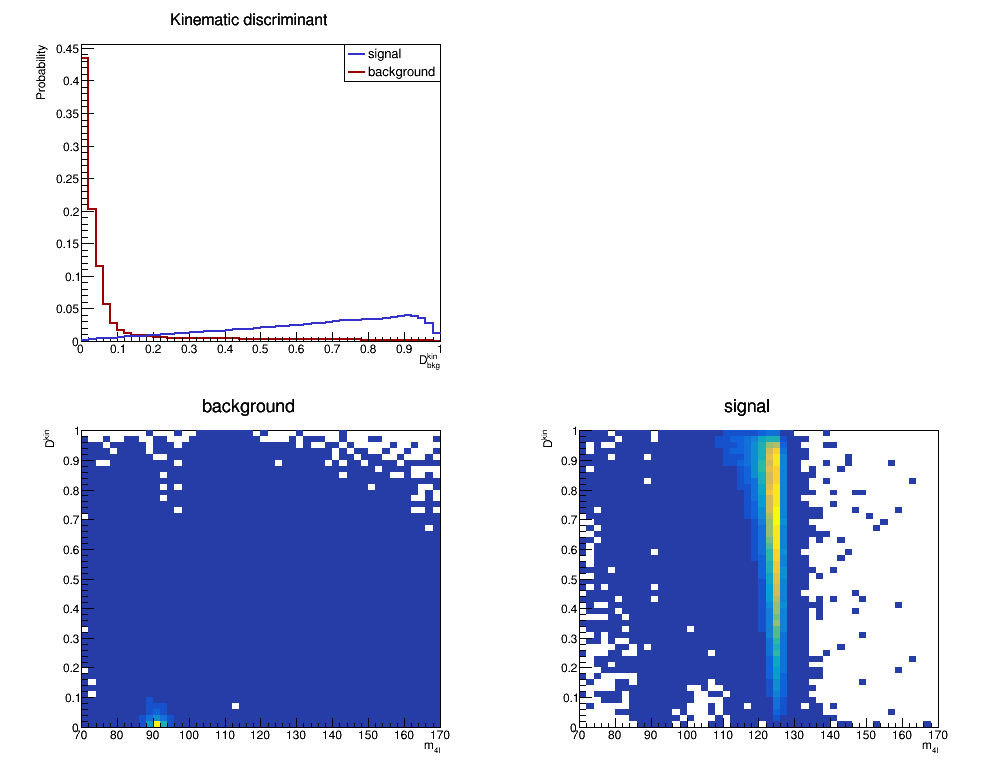
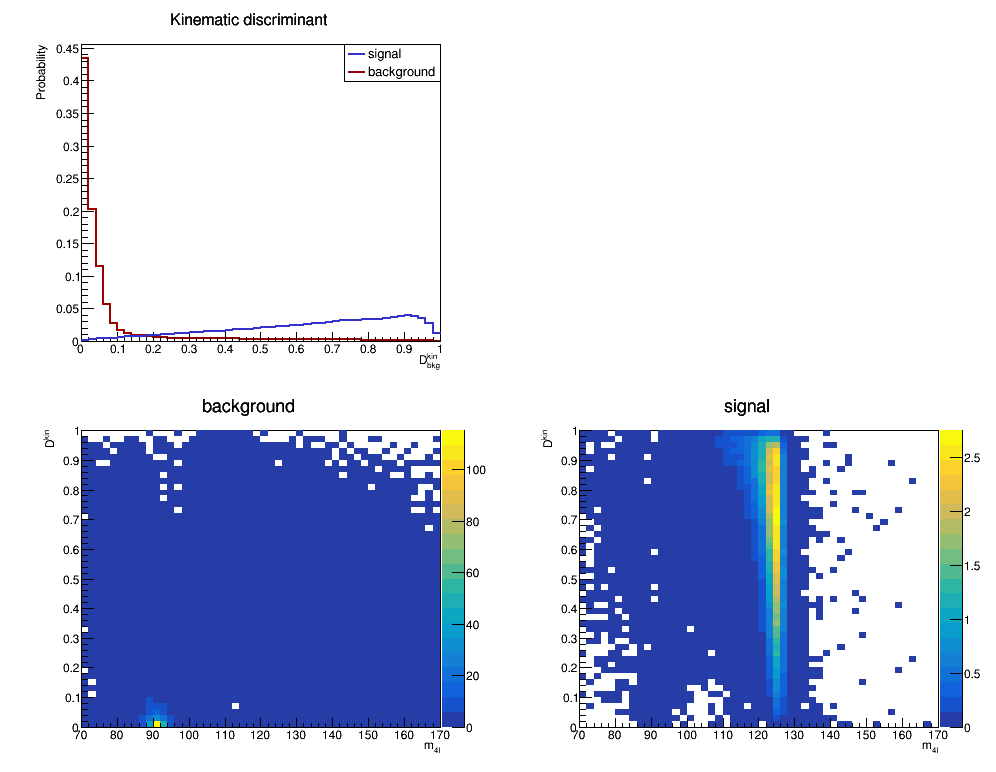
Zad5: pokusaj 2

Changed region(s): [[0.9337, 0.5596, 0.996, 0.9637], [0.4357, 0.5596, 0.498, 0.9637]]

diff --git a/Vjezbe_7/Analyzer.cpp b/Vjezbe_7/Analyzer.cpp
@@ -397,7 +397,7 @@ void Analyzer::PlotPublicHistograms()
     h_2d_bkg->SetTitle("background");
     h_2d_bkg->GetXaxis()->SetTitle("m_{4l}");
     h_2d_bkg->GetYaxis()->SetTitle("D^{kin}");
-    h_2d_bkg->Draw("col");
+    h_2d_bkg->Draw("colz");
     
 
     c3->cd(4);                   // signal
@@ -406,7 +406,7 @@ void Analyzer::PlotPublicHistograms()
     h_2d_sig->SetTitle("signal");
     h_2d_sig->GetXaxis()->SetTitle("m_{4l}");
     h_2d_sig->GetYaxis()->SetTitle("D^{kin}");
-    h_2d_sig->Draw("col");
+    h_2d_sig->Draw("colz");
 
 
     c3->SaveAs("2Dhistos.png");
